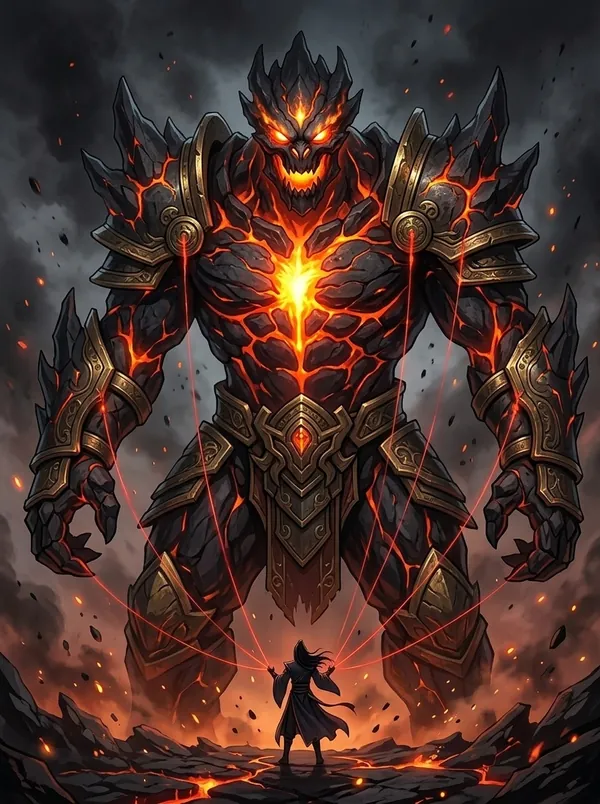
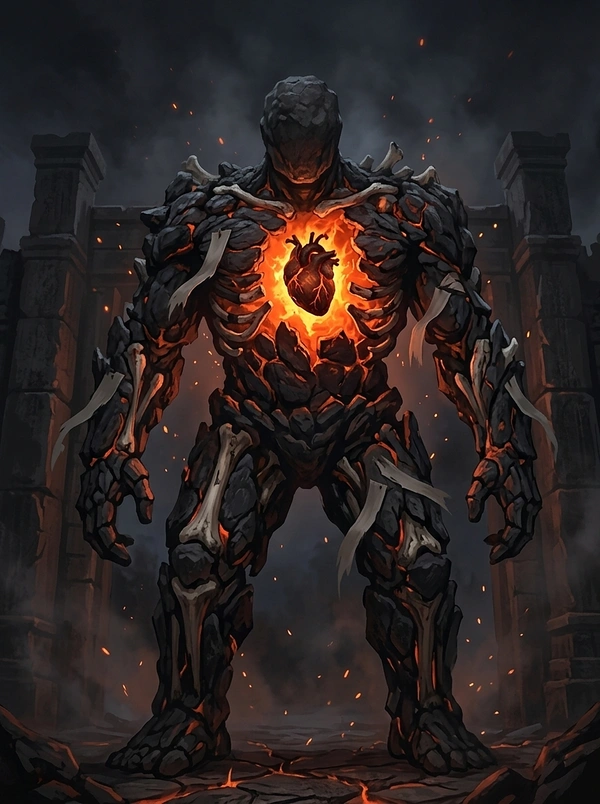
接入熔岩巨傀战斗立绘
用 handoff_boss_p1/boss_rongyan.webp（600×804）覆盖 assets/enemies/boss_rongyan.webp，并按黑风寨主/赤炎魔君的方式把 BATTLE.BOSSES 的 img 从 placeholder 改为该 webp（?v=20）。
提交时 sha256 与交接包一致。寒潮巨鲸与北溟鲲影仍为占位，未接入。仓库里没有 Boss HD 浏览路径（P0 的 _hd.jpg 也从未入库），因此未加入 boss_rongyan_hd.jpg，也未新造 hdImg 字段。

diff --git a/tools/codex.test.js b/tools/codex.test.js
@@ -203,8 +203,8 @@ console.log('codex.test.js ok: 52 entries, 30/30 bosses, 18 mobs');
   bosses.forEach((b) => { byId[b.id] = b; });
   assert.strictEqual(Object.keys(byId).length, 30, '每个 Boss 都有唯一 id');
   bosses.forEach((b) => assert.ok(fs.existsSync(path.join(ROOT, `assets/enemies/boss_${b.id}.webp`)), `boss_${b.id}.webp 存在`));
-  // 图片保持原样：只有黑风寨主/赤炎魔君/九幽鬼母接入新立绘，其余仍为占位
-  assert.deepStrictEqual(JSON.parse(JSON.stringify(bosses.filter((b) => b.img !== 'placeholder').map((b) => b.id))), ['heifeng', 'chiyan', 'jiuyou']);
+  // 图片：黑风寨主/熔岩巨傀/赤炎魔君/九幽鬼母接入新立绘，其余仍为占位；寒潮与北溟鲲影尚未接入
+  assert.deepStrictEqual(JSON.parse(JSON.stringify(bosses.filter((b) => b.img !== 'placeholder').map((b) => b.id))), ['heifeng', 'rongyan', 'chiyan', 'jiuyou']);
   Object.keys(RENAMED).forEach((id) => {
     const [oldName, newName] = RENAMED[id];
     assert.strictEqual(byId[id].name, newName, `${id} 应改名为 ${newName}`);

diff --git a/js/config.js b/js/config.js
@@ -375,7 +375,7 @@
       { id: 'qingming', name: '青冥蛟后', img: 'placeholder' },
       { id: 'baie', name: '白额山君', img: 'placeholder' },
       { id: 'huoya', name: '火鸦女王', img: 'placeholder' },
-      { id: 'rongyan', name: '熔岩巨傀', img: 'placeholder' },
+      { id: 'rongyan', name: '熔岩巨傀', img: 'assets/enemies/boss_rongyan.webp?v=20' },
       { id: 'fengu', name: '焚骨魔女', img: 'placeholder' },
       { id: 'yanmojiang', name: '炎魔女将', img: 'placeholder' },
       { id: 'chiyan', name: '赤炎魔君', img: 'assets/enemies/boss_chiyan.webp?v=19' },

diff --git a/index.html b/index.html
@@ -807,7 +807,7 @@
   </div>
 
   <script src="js/no-zoom.js?v=22"></script>
-  <script src="js/config.js?v=80"></script>
+  <script src="js/config.js?v=81"></script>
   <script src="js/beasts.js?v=1"></script>
   <script src="js/ui-text.js?v=3"></script>
   <script src="js/equip.js?v=22"></script>
